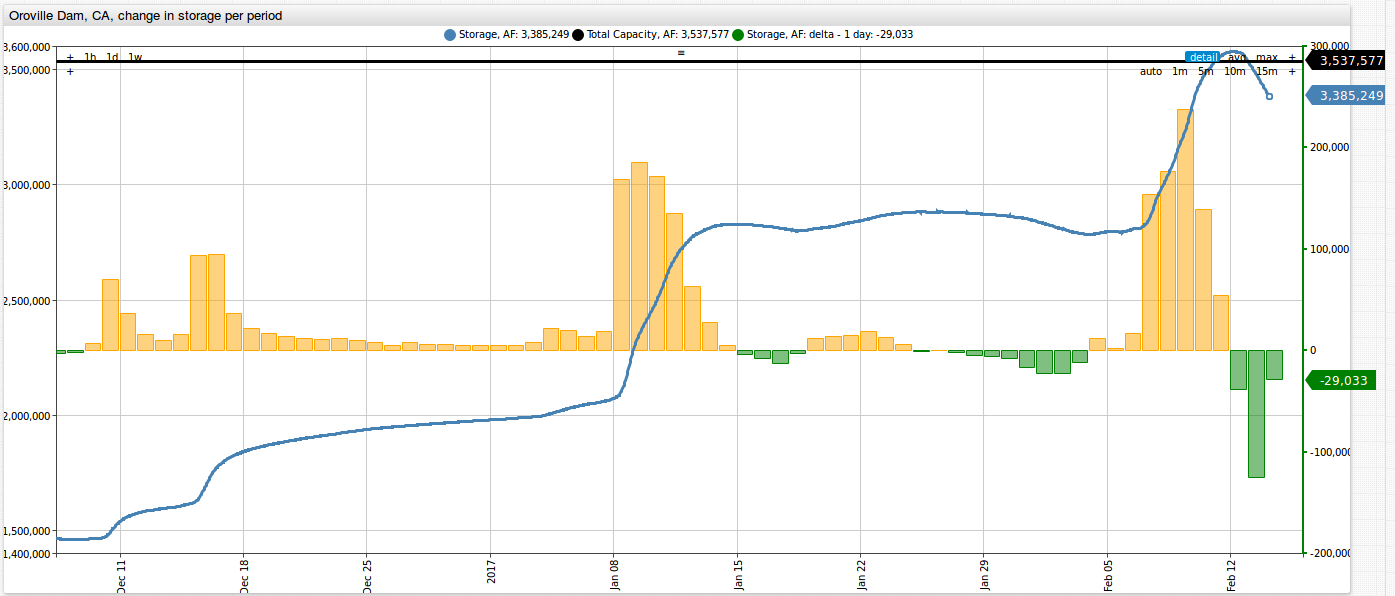
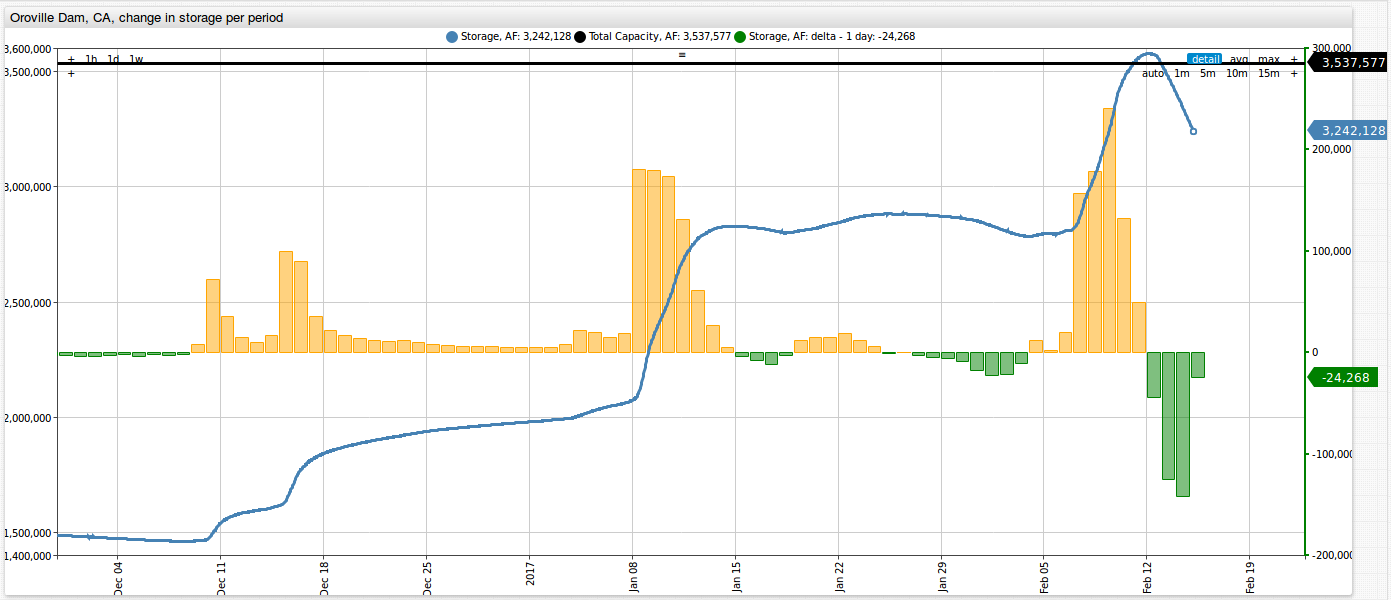
oroville-dam

diff --git a/OrovilleDam/README.md b/OrovilleDam/README.md
@@ -28,29 +28,24 @@ Data is collected hourly for the Oroville dam reservoir for the following metric
 * Dam Inflow (cubic feet/second)
 * Spillway Outflow (cubic feet/second)
 * Rain (inches)
+
+Below is an image showing these CDWR metrics in ATSD. You can toggle between the different metrics by clicking on the dropdown.     
+
+![Figure 1](Images/Figure1.png)
+
+You can explore the basic CDWR portal (loaded into ATSD) by clicking the button below:
+
+[![](Images/button.png)](https://apps.axibase.com/chartlab/dee79515/11/#fullscreen)
+
+**You do not need to install ATSD to look the real-time Oroville dam analysis in this article**. However, you can load the dataset into your ATSD instance by following the steps 
+provided at the [end of the article](#action-items).
  
-You can graph each of these metrics on the CDWR website. The website's graphical outputs, however, have very little interactive features. Ouput shows minimum and maximum values for a given range,
-and you cannot toggle over the series to display any of the intermediate values. Additionally, you are only able to display one metric per graph. The CDWR website does not 
-give any options for downloading the dataset. Using programs such as Excel to process this information can provide quick answers. However, when it comes to more in depth analysis, it is
-much more convenient to interact with the data once it is loaded into a database.  
-
-### Axibase Time Series Database (ATSD)
----------------------------------------
-
-The [Axibase Time Series Database](http://axibase.com/products/axibase-time-series-database/) (ATSD) is a powerful tool when it comes to storing, analyzing, and visualising 
-datasets. 
-
-**You do not need to install ATSD to look the real-time Oroville dam analysis in this article**. 
-
-If you are interested in reading more on the various capabilities of ATSD, check out our articles on [employee compensation numbers in Iowa](https://github.com/axibase/atsd-use-cases/blob/master/SocrataIowaCompensation/README.md) and
-[Hawaii gas prices](https://github.com/axibase/atsd-use-cases/blob/master/HawaiiGasPrices/hawaii_gas_prices.md).
-
-You can load the dataset into your ATSD instance by following the steps provided at the [end of the article](#action-items).
-
 ### The Current Situation - Realtime Analysis
 ---------------------------------------------
 
-Below is a screenshot showing the change in capacity of the Oroville dam from Saturday February 11th, 2017, to the early hours of February 14th, 2017 (the time this article was published).
+Now let's take a more in depth look at the situation at the Oroville dam. 
+
+Below is a screenshot showing the change in capacity of the Oroville dam from Saturday February 11th, 2017, to the morning of February 15th, 2017 (the time this article was published).
 The threshold capacity is **3,537,577 af**, as marked by the orange line in the image. As a note, you can scroll over horizontally and up or down vertically by left-clicking and dragging in the direction you
 would like to shift. We can see the approximate time that the dam **exceeded the threshold capacity** was between 2:00 and 3:00 am U.S. pacific time (PT) with 3,539,160 af recorded at 2:00 am on February 11th, and **returned to 
 below this limit** between 11:00 pm on February 12th and 12:00 am (PT) on February 13th with 3,533,936 af recorded at midnight (both times marked below). Additionally, we can observe that the dam hit its peak storage 
@@ -87,14 +82,15 @@ You can explore this portal by clicking on the button below:
 ### Reservoir Inflow and Outflows
 ---------------------------------
 
-Below is an image showing dam inflow (orange) and outflow (dark green), as well as spillway outflow (light green), all given in cubic feet per second (cfs). The image below shows these values for February 14th at 3:00 am 
-PT. At this time dam inflow is 30,805 cfs, dam outflow is 99,960 cfs, and spillway outflow is 118,031 cfs. The given number in light green (217,697 cfs) is the sum of the outflows.  
+Below is an image showing dam inflow (orange) and outflow (dark green), as well as spillway outflow (light green), all given in acre-feet per day (afd), which we converted from cfs
+(these calculations can be seen by clicking on the below Chart Lab button). The image below shows these values for February 15th at 5:00 am 
+PT. Up to this point in the day, the dam inflow has been 61,475 afd, dam outflow has been 198,175 afd, and spillway outflow is 233,042 cfs. The given number in light green (431,217 afd) is the sum of the outflows.  
  
 ![Figure 6](Images/Figure6.png)
 
 You can explore this portal by clicking on the button below:
 
-[![](Images/button.png)](https://apps.axibase.com/chartlab/dee79515/5/#fullscreen)
+[![](Images/button.png)](https://apps.axibase.com/chartlab/dee79515/10/#fullscreen)
 
 ### The Next Several Days
 -------------------------
@@ -119,12 +115,43 @@ You can explore this portal by clicking on the button below:
  
 [![](Images/button.png)](https://apps.axibase.com/chartlab/dee79515/7/#fullscreen)
 
-Below is an image of the situation at the time this article was published. As of 23:00 pm PT on February 14th, the reservoir storage level was at 3,266,396 af, which is 271,181 af
-less than the dam threshold. We can also see that for the last several days, the storage level has been decreasing. However, rain has been [forecast](https://weather.com/en/weather/tenday/l/95966:4:US) for the next several days.
-If the total rain accumulation remains under 4 inches, the situation at the Oroville dam should continue to get better. If more than 6 inches accumulate, this could
-result in a drastic storage level increase, again topping the threshold of the dam, and spelling a continuation of the disaster.   
+Below is an image of the situation at the time this article was published. As of 5:00 am PT on February 15th, the reservoir storage level was at 3,242,128 af, which is 289,208 af
+less than the dam threshold. We can also see that for the last several days, the storage level has been decreasing. However, rain has been [forecast](https://weather.com/en/weather/tenday/l/95966:4:US) 
+for the next several days.
 
 ![Figure 8](Images/Figure8.png)
+
+Is there any way we can can predict how quickly the dam will fill up for a given amount of rainfall? Another very helpful tool in ATSD is the capability to perform 
+[SQL queries](https://github.com/axibase/atsd-docs/blob/master/api/sql/README.md#overview), which can be used to search for specific information contained in this dataset. 
+Using the following query, we are able to obtain an estimate for the volume added (acre-foot) to the storage level of the reservoir per inch of rainfall.    
+
+```sql
+SELECT
+    SUM(t1.value)*3600*2.29569e-5 as 'total_inflow_in_acre_foot',
+    DELTA(t2.value) as 'total_precipitation_inches',
+    SUM(t1.value)*3600*2.29569e-5/DELTA(t2.value) as 'acre_foot_per_precipitation_inch'
+FROM 'ca.reservoir_inflow_cfs' t1
+JOIN 'ca.precipitation_accumulated_inches' t2
+WHERE t1.datetime >= '2017-01-01T00:00:00Z'
+```
+
+```ls
+| total_inflow_in_acre_foot  | total_precipitation_inches  | acre_foot_per_precipitation_inch | 
+|----------------------------|-----------------------------|----------------------------------| 
+| 2462228.8                  | 18.0                        | 136790.5                         | 
+```
+
+Based off of our estimate, for every inch of rainfall at the Oroville dam, 136,790.5 acre-feet will be added to the reservoir. As of 5:00 am PT on February 15th, there is 289,208 af 
+of space left in the reservoir before it reaches its threshold. The maximum outflow per day that the dam is able is push out is **142,034 afd**, which was achieved on February 14th. 
+So, if we multiply the rainfall per day by our acre-feet rate (136,790.5) and subtract the maximum outflow, we should get a storage amount added per day. If we then divide the 
+storage added per day, we should get a answer for how many days it would take for the storage to reach threshold capacity again. Below is a table showing the amount of time for the
+dam storage to reach threshold capacity for a given amount of rainfall per day. 
+
+| Rainfall       | Storage Added/Day | Remaining Storage | Time to Reach Threshold |
+|----------------|-------------------|-------------------|-------------------------|
+| 1 inch per day | -5,243.5          | 289,208           | No storage gain         |
+| 2 inch per day | +131,547          | 289,208           | 2.198 days ~ 52 hours   |
+| 3 inch per day | +268,337.5        | 289,208           | 1.049 days ~ 26 hours   |
 
 Come back to this article in the coming days and look at our **real-time analysis** for updates on the Oroville dam. **You do not need to install ATSD** to continue to monitor
 the situation. Simply by clicking on each of the **Chart Lab buttons**, you can keep up to date on dam storage levels, dam inflow, dam outflow, spillway outflow, and precipitation.
